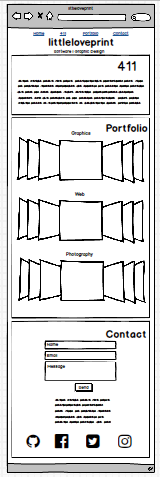
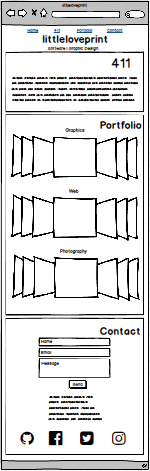
Made a lot of accidental mistakes. Hopefully, I fixed them all and restored the work I accidentally deleted. Rearranged some files due to img errors. They now show up :)

diff --git a/index.php b/index.php
@@ -1,0 +1,50 @@
+<!DOCTYPE html>
+<html lang="en">
+	<head>
+		<meta charset="utf-8"/>
+		<meta http-equiv="X-UA-Compatible" content="IE=edge"/>
+		<meta name="viewport" content="width=device-width, initial-scale=1"/>
+
+		<!-- Bootstrap Latest compiled and minified CSS -->
+		<link rel="stylesheet" href="https://maxcdn.bootstrapcdn.com/bootstrap/3.3.7/css/bootstrap.min.css" integrity="sha384-BVYiiSIFeK1dGmJRAkycuHAHRg32OmUcww7on3RYdg4Va+PmSTsz/K68vbdEjh4u" crossorigin="anonymous" />
+
+		<!-- Optional theme -->
+		<link rel="stylesheet" href="https://maxcdn.bootstrapcdn.com/bootstrap/3.3.7/css/bootstrap-theme.min.css" integrity="sha384-rHyoN1iRsVXV4nD0JutlnGaslCJuC7uwjduW9SVrLvRYooPp2bWYgmgJQIXwl/Sp" crossorigin="anonymous" />
+
+		<!-- HTML5 shiv and Respond.js for IE8 support of HTML5 elements and media queries -->
+		<!-- WARNING: Respond.js doesn't work if you view the page via file:// -->
+		<!--[if lt IE 9]>
+		<script src="https://oss.maxcdn.com/html5shiv/3.7.2/html5shiv.min.js"></script>
+		<script src="https://oss.maxcdn.com/respond/1.4.2/respond.min.js"></script>
+		<![endif]-->
+
+		<!-- Lea's Custom CSS Below -->
+
+
+
+		<!-- jQuery (necessary for Bootstrap's JavaScript plugins) -->
+		<script src="https://cdnjs.cloudflare.com/ajax/libs/jquery/3.0.0/jquery.min.js"></script>
+
+		<!-- Latest compiled and minified Bootstrap JavaScript, all compiled plugins included -->
+		<script src="https://maxcdn.bootstrapcdn.com/bootstrap/3.3.7/js/bootstrap.min.js" integrity="sha384-Tc5IQib027qvyjSMfHjOMaLkfuWVxZxUPnCJA7l2mCWNIpG9mGCD8wGNIcPD7Txa" crossorigin="anonymous"></script>
+
+		<title>littleloveprint</title>
+	</head>
+	<body class="sfooter">
+		<div class="sfooter-content">
+			<!-- Nav Bar -->
+			<ul>
+				<li><a href="index.php">Home</a> </li>
+				<li><a href="411.php">411</li>
+				<li><a href="portfolio.php">Portfolio</a> </li>
+				<li><a href="contact.php">Contact</a> </li>
+			</ul>
+
+			<!-- Header -->
+			<header>
+				<img src="img/litleloveprint-logo.png" alt="littleloveprint logo"/>
+				<h2>Software Development + Graphic Design</h2>
+			</header>
+		</div>
+	</body>
+</html>

diff --git a/epic/milestone-1.php b/epic/milestone-1.php
@@ -4,7 +4,7 @@
 		<meta charset="utf-8">
 
 		<!-- Custom CSS stylesheet -->
-		<link rel="stylesheet" href="/public_html/documentation/css/style.css" type="text/css" />
+		<link rel="stylesheet" href="/epic/documentation/css/style.css" type="text/css" />
 
 		<title>littleloveprint M-1</title>
 	</head>
